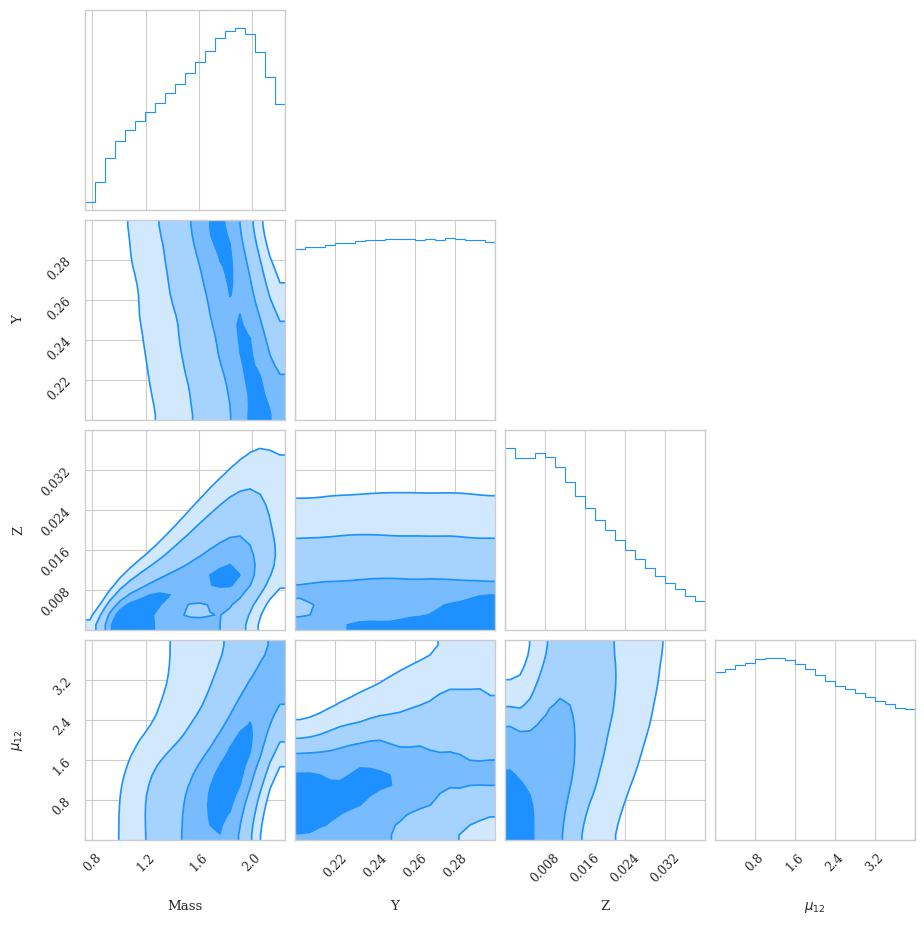
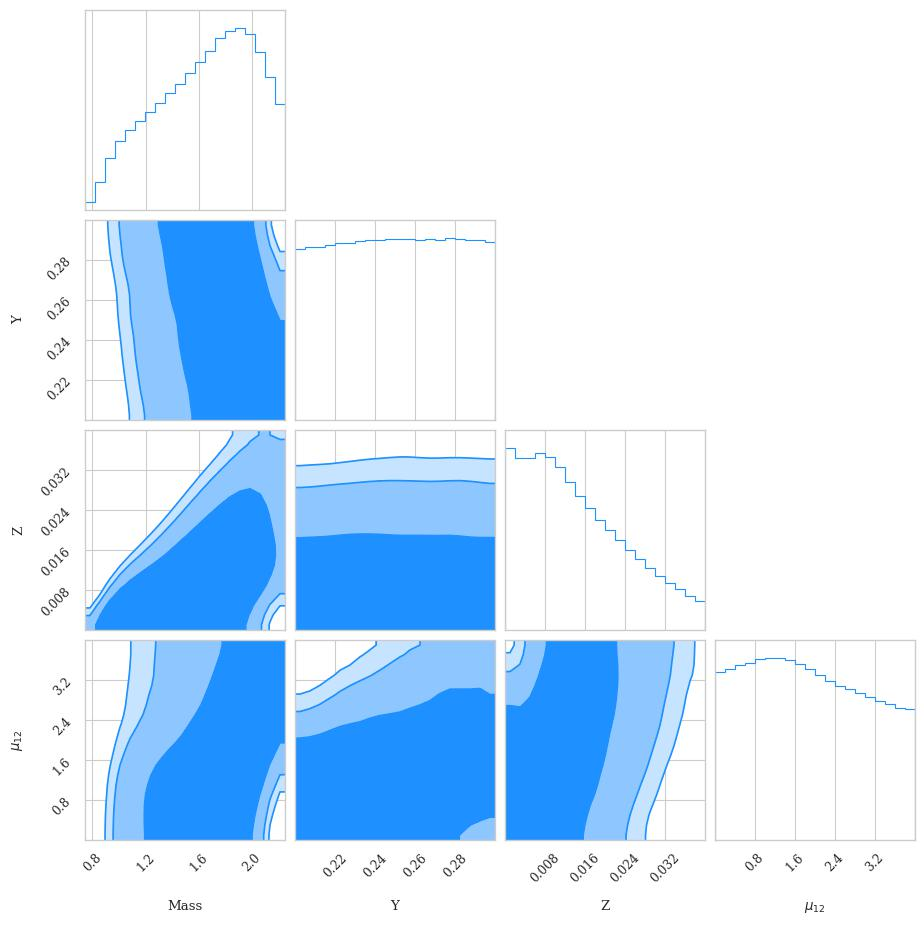
update corner with different CI

Changed region(s): [[0.0909, 0.2119, 0.7576, 0.9081]]

diff --git a/mcmc/analyzeMCMC.py b/mcmc/analyzeMCMC.py
@@ -29,7 +29,8 @@ def plotCorner(chain, log):
                         color='dodgerblue',
                         smooth=True,
                         plot_datapoints=False,
-                        fill_contours=True)
+                        fill_contours=True,
+                        levels=[0.68, 0.90, 0.95])
     fig.savefig("corner_pretty.jpeg", bbox_inches='tight', transparent=False)
 
 def testGaussian(chain):
